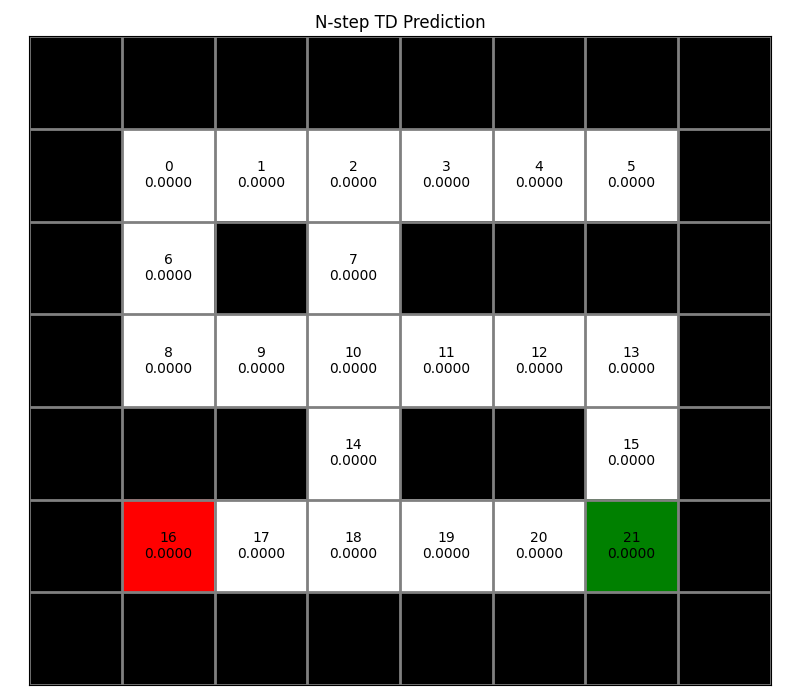
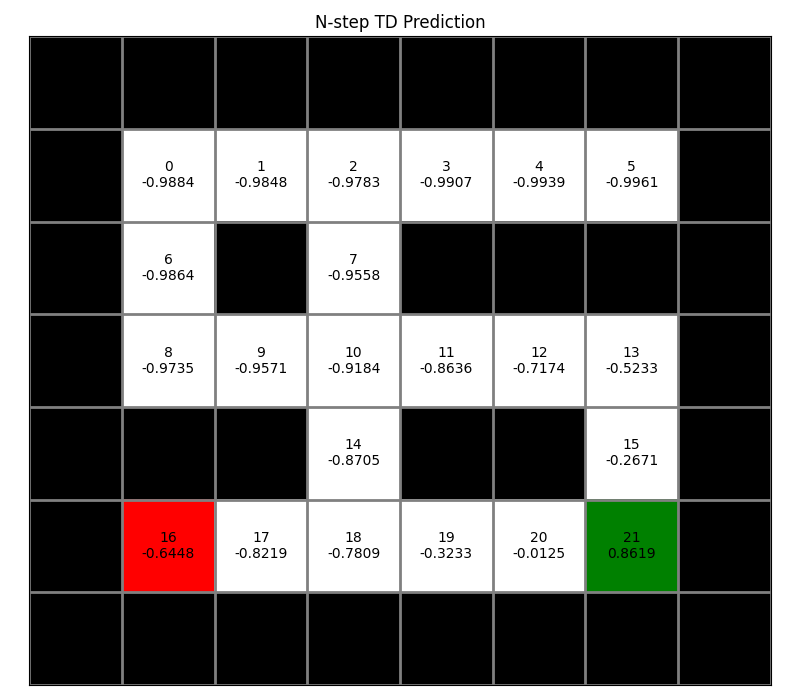
td0 bad: update every s in history

diff --git a/hw2/algorithms.py b/hw2/algorithms.py
@@ -152,9 +152,31 @@ class NstepTDPrediction(ModelFreePrediction):
         """Run the algorithm until max_episode"""
         # TODO: Update self.values with N-step TD Algorithm
         current_state = self.grid_world.reset()
+        n_history = []
+        n = self.n
+
         while self.episode_counter < self.max_episode:
             next_state, reward, done = self.collect_data()
-            continue
+            n_history.append((current_state, reward))
+            n_history = n_history[-n:]
+
+            for t in range(len(n_history)):
+                t_history = n_history[t:]
+                t_rewards = [r for _, r in t_history]
+                s, _ = t_history[0]
+
+                if done:
+                    td_target = sum([r * self.discount_factor**i for i, r in enumerate(t_rewards)])
+                else:
+                    td_target = (sum([r * self.discount_factor**i for i, r in enumerate(t_rewards)]) + 
+                        self.discount_factor** len(t_history) * self.values[next_state])
+
+                self.values[s] = self.values[s] + self.lr * (td_target - self.values[s])
+
+            current_state = next_state
+            if done:
+                n_history = []
+
 
 # =========================== 2.2 model free control ===========================
 class ModelFreeControl:
